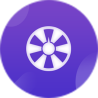
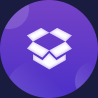
“夺宝”改为“拆盲盒”，图标修改

diff --git a/components/tabbarPage/home.vue b/components/tabbarPage/home.vue
@@ -46,7 +46,7 @@
 						<u-grid-item bgColor="#191C3F">
 							<view class="feature_item" @tap="$u.throttle(goWheel, 1200)">
 								<image src="/static/imgs/index/treasure.png"></image>
-								<text>夺宝</text>
+								<text>拆盲盒</text>
 							</view>
 						</u-grid-item>
 					</u-grid>
